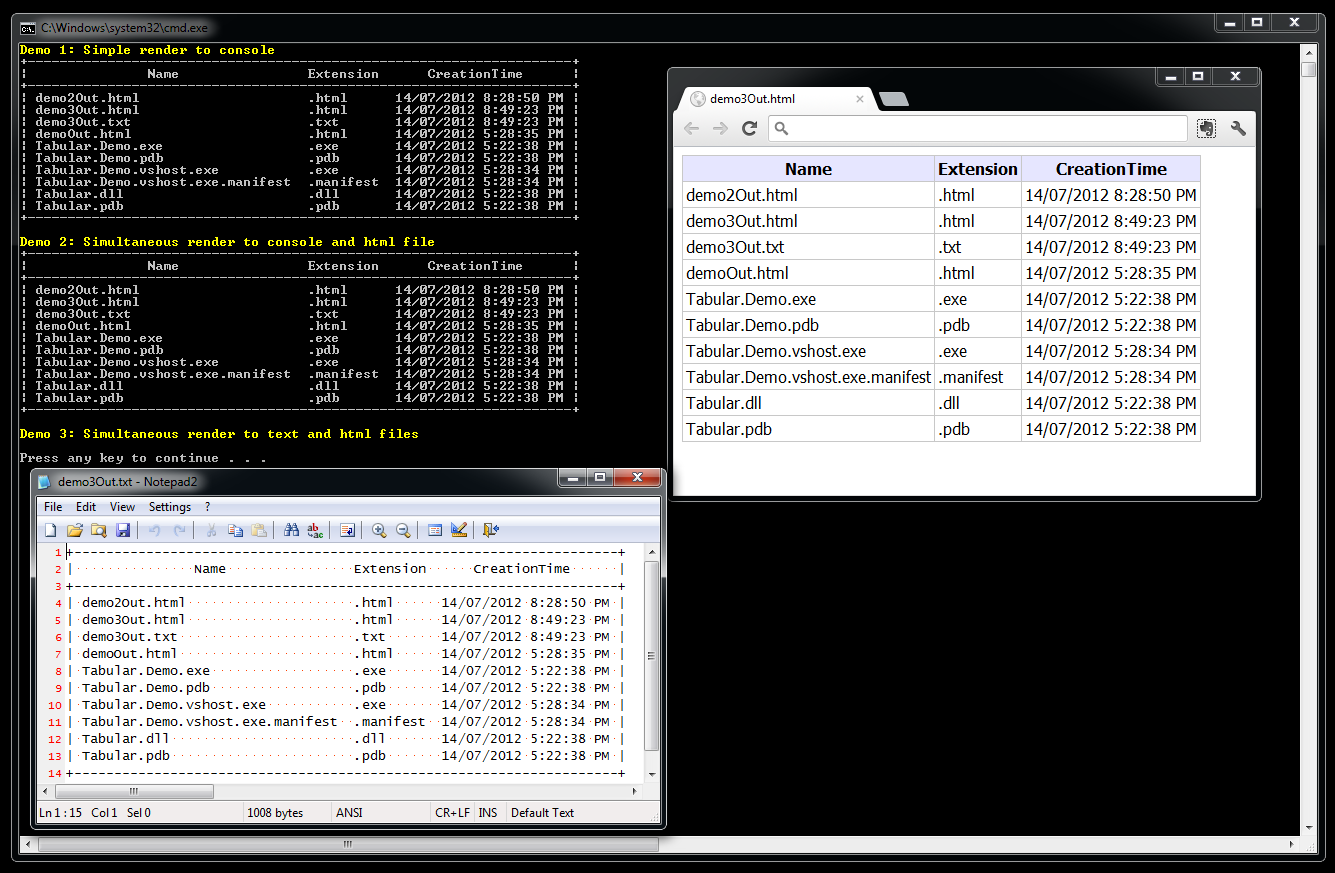
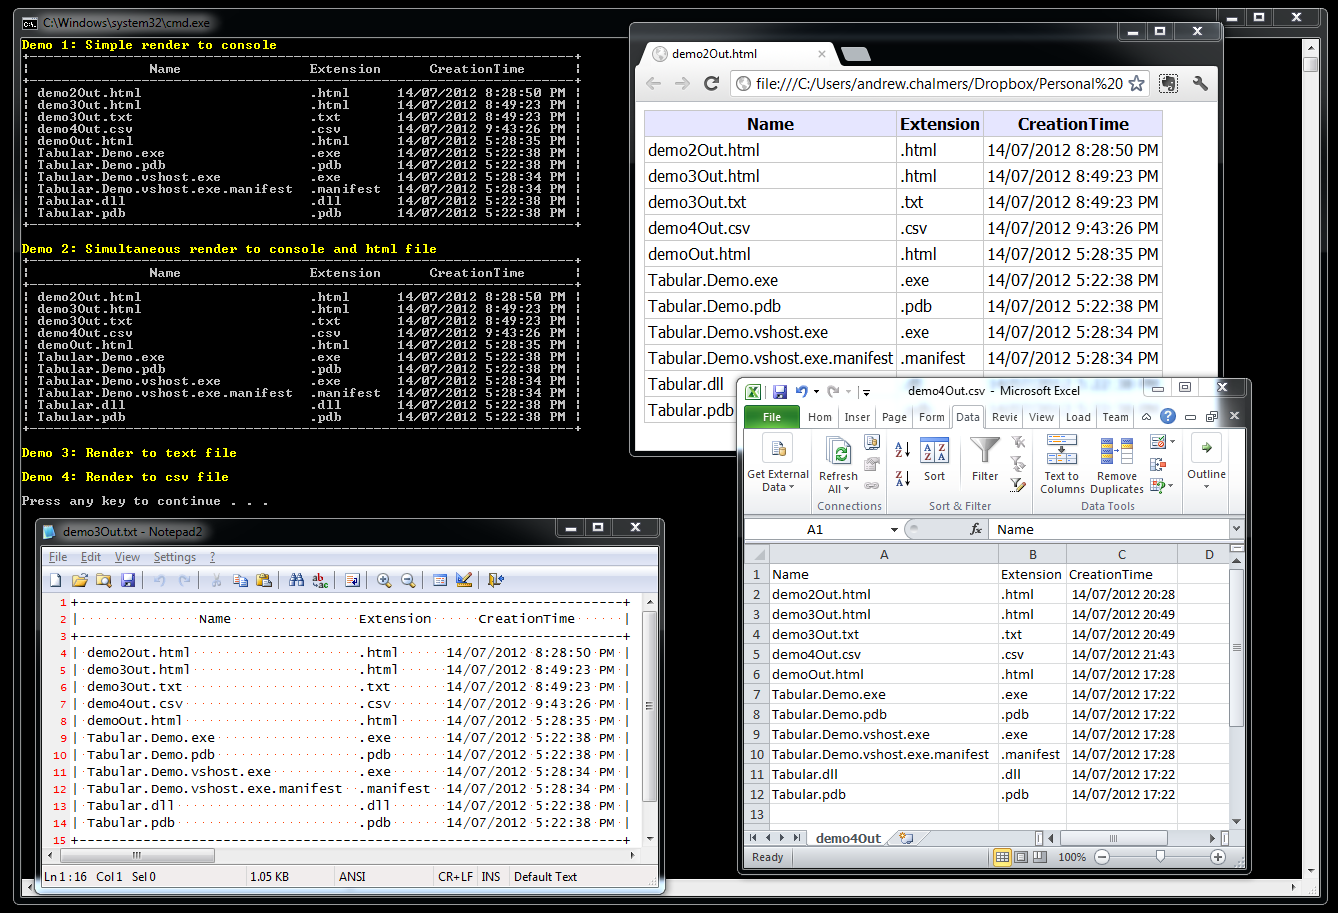
Implemented CSV output

diff --git a/Tabular.Demo/Program.cs b/Tabular.Demo/Program.cs
@@ -13,7 +13,8 @@ namespace Tabular.Demo
 		{
 			RunDemo("Demo 1: Simple render to console",                     () => Demo1_DemonstrateSimpleRenderToConsole());
 			RunDemo("Demo 2: Simultaneous render to console and html file", () => Demo2_DemonstrateSimultaneousRenderToConsoleAndHtmlFile());
-			RunDemo("Demo 3: Simultaneous render to text and html files",   () => Demo3_DemonstrateSimultaneousRenderToConsoleAndTextFile());
+			RunDemo("Demo 3: Render to text file",                          () => Demo3_DemonstrateRenderToTextFile());
+			RunDemo("Demo 4: Render to csv file",                           () => Demo4_DemonstrateRenderToCsvFile());
 		}
 
 		private static void Demo1_DemonstrateSimpleRenderToConsole()
@@ -65,39 +66,48 @@ namespace Tabular.Demo
 			Process.Start("demo2Out.html");
 		}
 
-		private static void Demo3_DemonstrateSimultaneousRenderToConsoleAndTextFile()
+		private static void Demo3_DemonstrateRenderToTextFile()
 		{
-			using (StreamWriter demo3HtmlOut = new StreamWriter("demo3Out.html"))
+			// First, let's build a collection of objects to render.
+			var filesInCurrentDirectory =
+				new DirectoryInfo(Directory.GetCurrentDirectory()).GetFiles();
+
+			// The anonymous type we're building has properties Name, Extension and CreationTime.
+			// The resulting table will have a column for each of those properties.
+			var objectsToRender =
+				filesInCurrentDirectory
+				.Select(x => new { x.Name, x.Extension, x.CreationTime });
+
 			using (StreamWriter demo3TextOut = new StreamWriter("demo3Out.txt"))
 			{
-				// First, let's build a collection of objects to render.
-				var filesInCurrentDirectory =
-					new DirectoryInfo(Directory.GetCurrentDirectory()).GetFiles();
-
-				// The anonymous type we're building has properties Name, Extension and CreationTime.
-				// The resulting table will have a column for each of those properties.
-				var objectsToRender =
-					filesInCurrentDirectory
-					.Select(x => new { x.Name, x.Extension, x.CreationTime });
-
-				// Next, set up some table renderers. First, a writer that will write the
-				// table to the text file.
-				var textTableWriter = new TextTableWriter(demo3TextOut);
-
-				// Now, a writer that will write HTML to an output file.
-				var htmlTableWriter = new HtmlTableWriter(demo3HtmlOut);
-
-				// Now, a single renderer which takes care of writing our single table to
-				// both of the above destinations.
-				var multipleTableRenderer = new MultipleTargetTableWriter(textTableWriter, htmlTableWriter);
-
 				// Finally, we actually render the table
-				TableRenderer.Render(objectsToRender, multipleTableRenderer);
+				TableRenderer.Render(objectsToRender, new TextTableWriter(demo3TextOut));
 			}
 
-			// And display the generated files
-			Process.Start("demo3Out.html");
+			// And display the generated file
 			Process.Start("demo3Out.txt");
+		}
+
+		private static void Demo4_DemonstrateRenderToCsvFile()
+		{
+			// First, let's build a collection of objects to render.
+			var filesInCurrentDirectory =
+				new DirectoryInfo(Directory.GetCurrentDirectory()).GetFiles();
+
+			// The anonymous type we're building has properties Name, Extension and CreationTime.
+			// The resulting table will have a column for each of those properties.
+			var objectsToRender =
+				filesInCurrentDirectory
+				.Select(x => new { x.Name, x.Extension, x.CreationTime });
+
+			using (StreamWriter demo4Out = new StreamWriter("demo4Out.csv"))
+			{
+				// Finally, we actually render the table
+				TableRenderer.Render(objectsToRender, new CsvTableWriter(demo4Out));
+			}
+
+			// And display the generated file
+			Process.Start("demo4Out.csv");
 		}
 
 		private static void RunDemo(string title, Action demo)

diff --git a/Tabular/CsvTableWriter.cs b/Tabular/CsvTableWriter.cs
@@ -1,0 +1,68 @@
+using System;
+using System.Collections.Generic;
+using System.Linq;
+using System.Text;
+using System.IO;
+
+namespace Tabular
+{
+	public class CsvTableWriter : ITableWriter
+	{
+		StreamWriter _sw;
+		TableStructure _structure;
+		TableColumn _firstColumn;
+
+		public CsvTableWriter(StreamWriter sw)
+		{
+			_sw = sw;
+		}
+
+		public void StartTable(TableStructure tableStructure)
+		{
+			_structure = tableStructure;
+			_firstColumn = tableStructure.ColumnGroups.First().Columns.First();
+
+			if (_structure.GetAllColumns().Any(c => c.Title.Length > 0))
+			{
+				_sw.WriteLine(string.Join(",", _structure.ColumnGroups.SelectMany(cg => cg.Columns).Select(c => c.Title).ToArray()));
+			}
+		}
+
+		public void EndTable()
+		{
+		}
+
+		public void StartRow()
+		{
+		}
+
+		public void EndRow()
+		{
+			_sw.WriteLine();
+		}
+
+		public void WriteCell(TableColumn column, string value)
+		{
+			if (column != _firstColumn)
+			{
+				_sw.Write(",");
+			}
+
+			_sw.Write(value);
+		}
+
+		private string GetCsvEscapedValue(string value)
+		{
+			// If the value contains a comma
+			if (value.Contains(','))
+			{
+				// We wrap the whole thing in double quotes, being sure to duplicate any double quotes it already contained.
+				return "\"" + value.Replace("\"", "\"\"") + "\"";
+			}
+			else
+			{
+				return value;
+			}
+		}
+	}
+}
